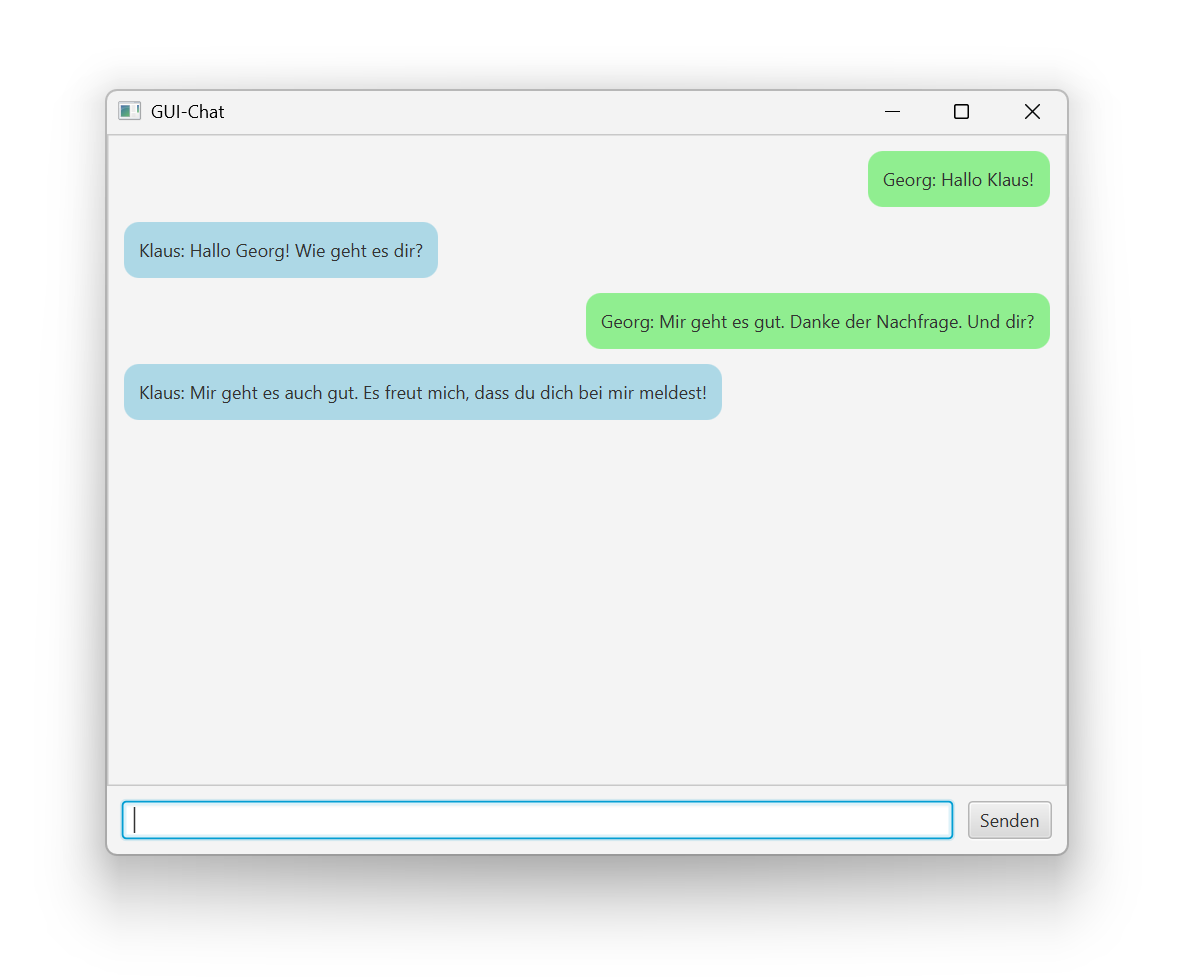
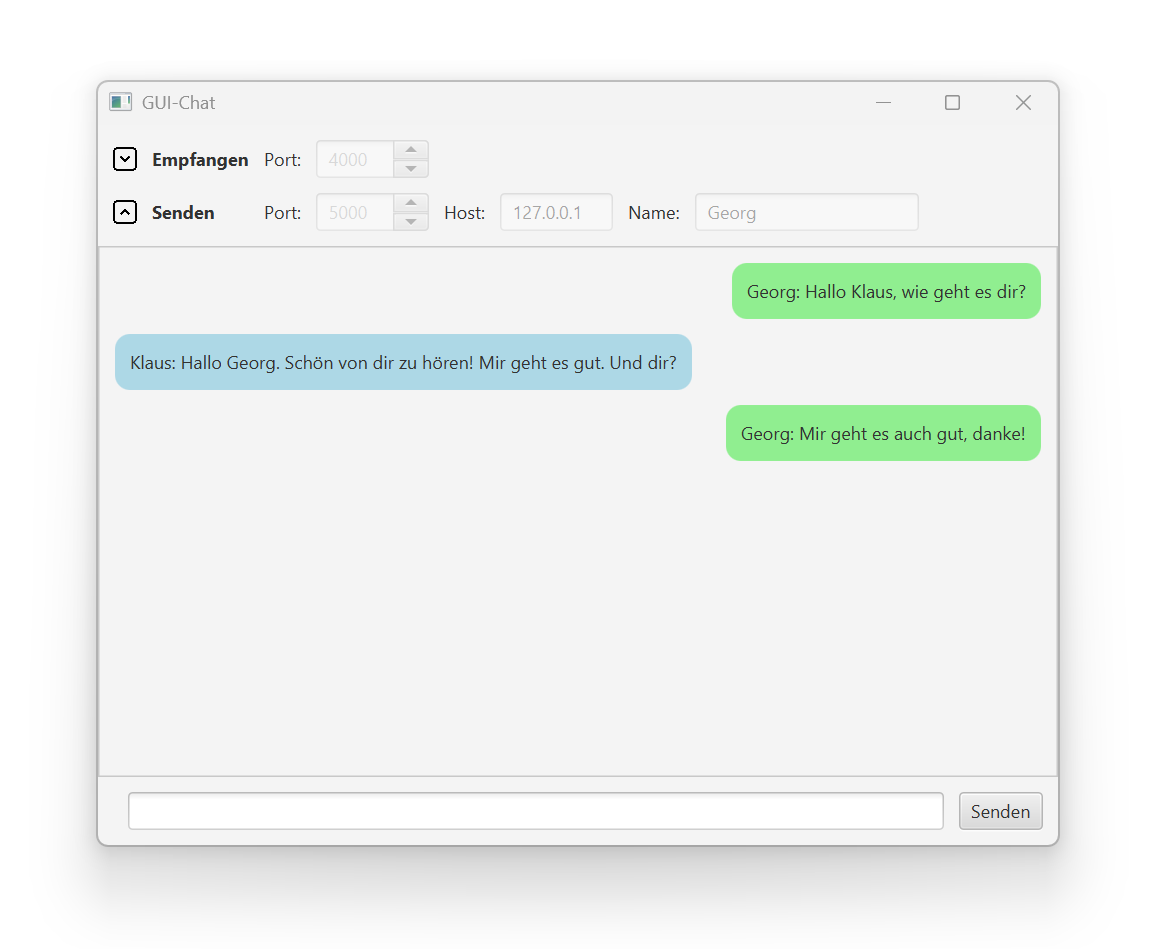
improve chat ux

diff --git a/Quellen/GUI-Chat/src/main/java/at/fhooe/hackenberg/Program.java b/Quellen/GUI-Chat/src/main/java/at/fhooe/hackenberg/Program.java
@@ -20,6 +20,8 @@ import javafx.scene.control.ScrollPane;
 import javafx.scene.control.Spinner;
 import javafx.scene.control.TextField;
 import javafx.scene.control.TextInputDialog;
+import javafx.scene.image.ImageView;
+import javafx.scene.input.KeyCode;
 import javafx.scene.layout.BorderPane;
 import javafx.scene.layout.GridPane;
 import javafx.scene.layout.HBox;
@@ -33,8 +35,61 @@ public class Program extends Application {
 		Program.launch(args);
 		
 	}
+
+	private Spinner<Integer> receivePort;
+	private DatagramSocket receiveSocket;
+	private VBox receiveMessages;
 	
-	private DatagramSocket socket;
+	private TextField sendName;
+	private TextField sendHost;
+	private Spinner<Integer> sendPort;
+	private TextField sendMessage;
+	
+	private void send() {
+		try (DatagramSocket sendSocket = new DatagramSocket()) {
+			// Prüfe den Nachrichteninhalt
+			if (sendMessage.getText().trim().length() == 0) {
+				throw new IOException("Bitte gib eine Nachricht ein.");
+			}
+			
+			// Nachrichtentext erzeugen
+			String data = sendName.getText() + ": " + sendMessage.getText();
+			
+			// Nachrichtentext umwandeln
+			byte[] buffer = data.getBytes();
+
+			// UDP-Paket erzeugen
+			DatagramPacket packet = new DatagramPacket(buffer, buffer.length, InetAddress.getByName(sendHost.getText()), sendPort.getValue());
+
+			// UDP-Paket senden				
+			sendSocket.send(packet);
+			
+			// Nachrichtentext in der Nachrichtenliste anzeigen
+			Label label = new Label(data);
+			label.setPadding(new Insets(10));
+			label.setStyle("-fx-background-color: lightgreen; -fx-background-radius: 10;");
+			label.setWrapText(true);
+			
+			HBox box = new HBox();
+			box.setAlignment(Pos.CENTER_RIGHT);
+			box.getChildren().add(label);
+			
+			receiveMessages.getChildren().add(box);
+			
+			// Inhalt des Texteingabefeldes leeren
+			sendMessage.setText("");
+			
+			// Fokus zurück auf das Texteingabefeld setzen
+			sendMessage.requestFocus();
+		} catch (IOException e) {
+			Alert alert = new Alert(AlertType.ERROR);
+			alert.setTitle("Problem beim Senden");
+			alert.setHeaderText("Es ist ein Problem beim Senden aufgetreten.");
+			alert.setContentText(e.getLocalizedMessage());
+			
+			alert.showAndWait();
+		}
+	}
 
 	@Override
 	public void start(Stage primaryStage) throws Exception {
@@ -47,9 +102,6 @@ public class Program extends Application {
 		ownNameDialog.setContentText("Name:");
 		ownNameDialog.showAndWait();
 		
-		TextField ownNameField = new TextField(ownNameDialog.getResult());
-		ownNameField.setDisable(true);
-		
 		// Portnummer abfragen
 		
 		TextInputDialog ownPortDialog = new TextInputDialog("4000");
@@ -58,19 +110,13 @@ public class Program extends Application {
 		ownPortDialog.setContentText("Port:");
 		ownPortDialog.showAndWait();
 		
-		Spinner<Integer> ownPortSpinner = new Spinner<Integer>(0, 65536, Integer.parseInt(ownPortDialog.getResult()));
-		ownPortSpinner.setDisable(true);
-		
 		// IP-Adresse abfragen
 		
-		TextInputDialog otherHostDialog = new TextInputDialog("localhost");
+		TextInputDialog otherHostDialog = new TextInputDialog("127.0.0.1");
 		otherHostDialog.setTitle("Die IP-Adresse zum Senden");
 		otherHostDialog.setHeaderText("Gib bitte die IP-Addresse zum Senden von Nachrichten ein.");
 		otherHostDialog.setContentText("IP-Adresse:");
 		otherHostDialog.showAndWait();
-		
-		TextField otherHostField = new TextField(otherHostDialog.getResult());
-		otherHostField.setDisable(true);
 		
 		// Portnummer abfragen
 		
@@ -80,95 +126,87 @@ public class Program extends Application {
 		otherPortDialog.setContentText("Port:");
 		otherPortDialog.showAndWait();
 		
-		Spinner<Integer> otherPortSpinner = new Spinner<Integer>(0, 65536, Integer.parseInt(otherPortDialog.getResult()));
-		otherPortSpinner.setDisable(true);
-		
 		// GUI erstellen
 		
-		VBox receiveMessageList = new VBox();
-		receiveMessageList.setSpacing(10);
-		receiveMessageList.setPadding(new Insets(10));
+		receivePort = new Spinner<Integer>(0, 65536, Integer.parseInt(ownPortDialog.getResult()));
+		receivePort.setDisable(true);
+		receivePort.setPrefWidth(75);
 		
-		ScrollPane receiveScrollBar = new ScrollPane();
-		receiveScrollBar.setFitToWidth(true);
-		receiveScrollBar.setContent(receiveMessageList);
-		// Auto-Scroll an das Listenende
-		receiveScrollBar.vvalueProperty().bind(receiveMessageList.heightProperty());
+		receiveMessages = new VBox();
+		receiveMessages.setSpacing(10);
+		receiveMessages.setPadding(new Insets(10));
 		
-		TextField sendMessageField = new TextField("Nachricht");
+		sendName = new TextField(ownNameDialog.getResult());
+		sendName.setDisable(true);
 		
-		Button sendButton = new Button("Senden");
-		sendButton.setOnAction(event -> {
-			try (DatagramSocket socket = new DatagramSocket()) {
-				// Nachrichtentext erzeugen
-				String data = ownNameField.getText() + ": " + sendMessageField.getText();
-				
-				// Nachrichtentext umwandeln
-				byte[] buffer = data.getBytes();
-
-				// UDP-Paket erzeugen
-				DatagramPacket packet = new DatagramPacket(buffer, buffer.length, InetAddress.getByName(otherHostField.getText()), otherPortSpinner.getValue());
-
-				// UDP-Paket senden				
-				socket.send(packet);
-				
-				// Nachrichtentext in der Nachrichtenliste anzeigen
-				Label label = new Label(data);
-				label.setPadding(new Insets(10));
-				label.setStyle("-fx-background-color: lightgreen; -fx-background-radius: 10;");
-				label.setWrapText(true);
-				
-				HBox box = new HBox();
-				box.setAlignment(Pos.CENTER_RIGHT);
-				box.getChildren().add(label);
-				
-				receiveMessageList.getChildren().add(box);
-				
-				// Inhalt des Texteingabefeldes leeren
-				sendMessageField.setText("");
-				
-				// Fokus zurück auf das Texteingabefeld setzen
-				sendMessageField.requestFocus();
-			} catch (IOException e) {
-				Alert alert = new Alert(AlertType.ERROR);
-				alert.setTitle("Problem beim Senden");
-				alert.setHeaderText("Es ist ein Problem beim Senden aufgetreten.");
-				alert.setContentText(e.getLocalizedMessage());
-				
-				alert.showAndWait();
+		sendHost = new TextField(otherHostDialog.getResult());
+		sendHost.setDisable(true);
+		sendHost.setPrefWidth(75);
+		
+		sendPort = new Spinner<Integer>(0, 65536, Integer.parseInt(otherPortDialog.getResult()));
+		sendPort.setDisable(true);
+		sendPort.setPrefWidth(75);
+		
+		sendMessage = new TextField("Nachricht");
+		sendMessage.setOnKeyPressed(event -> {
+			if (event.getCode() == KeyCode.ENTER) {
+				send();
 			}
 		});
 		
-		GridPane receiveToolBar = new GridPane();
-		receiveToolBar.setHgap(10);
-		receiveToolBar.setPadding(new Insets(10));
-		receiveToolBar.add(new Label("Port:"), 0, 0);
-		receiveToolBar.add(ownPortSpinner, 1, 0);
+		ScrollPane receivePane = new ScrollPane();
+		receivePane.setFitToWidth(true);
+		receivePane.setContent(receiveMessages);
+		// Auto-Scroll an das Listenende
+		receivePane.vvalueProperty().bind(receiveMessages.heightProperty());
 		
-		GridPane sendToolBar = new GridPane();
-		sendToolBar.setHgap(10);
-		sendToolBar.setPadding(new Insets(10, 10, 0, 10));
-		sendToolBar.add(new Label("Name:"), 0, 0);
-		sendToolBar.add(ownNameField, 1, 0);
-		sendToolBar.add(new Label("Host:"), 2, 0);
-		sendToolBar.add(otherHostField, 3, 0);
-		sendToolBar.add(new Label("Port:"), 4, 0);
-		sendToolBar.add(otherPortSpinner, 5, 0);
+		Button sendButton = new Button("Senden");
+		sendButton.setOnAction(event -> {
+			send();
+		});
 		
-		BorderPane sendMessageBar = new BorderPane();
-		sendMessageBar.setPadding(new Insets(10));
-		sendMessageBar.setLeft(new Label("Nachricht:"));
-		sendMessageBar.setCenter(sendMessageField);
-		sendMessageBar.setRight(sendButton);
-		BorderPane.setMargin(sendMessageField, new Insets(0, 10, 0, 10));
+		ImageView sendImage = new ImageView("send.png");
+		sendImage.setFitWidth(16);
+		sendImage.setFitHeight(16);
 		
-		VBox sendBar = new VBox();
-		sendBar.getChildren().add(sendToolBar);
-		sendBar.getChildren().add(sendMessageBar);
+		ImageView receiveImage = new ImageView("receive.png");
+		receiveImage.setFitWidth(16);
+		receiveImage.setFitHeight(16);
+		
+		Label sendLabel = new Label("Senden");
+		sendLabel.setStyle("-fx-font-weight: bold;");
+		
+		Label receiveLabel = new Label("Empfangen");
+		receiveLabel.setStyle("-fx-font-weight: bold;");
+		
+		GridPane settingsBar = new GridPane();
+		settingsBar.setHgap(10);
+		settingsBar.setVgap(10);
+		settingsBar.setPadding(new Insets(10));
+		
+		settingsBar.add(receiveImage, 0, 0);
+		settingsBar.add(receiveLabel, 1, 0);
+		settingsBar.add(new Label("Port:"), 2, 0);
+		settingsBar.add(receivePort, 3, 0);
+
+		settingsBar.add(sendImage, 0, 1);
+		settingsBar.add(sendLabel, 1, 1);
+		settingsBar.add(new Label("Port:"), 2, 1);
+		settingsBar.add(sendPort, 3, 1);
+		settingsBar.add(new Label("Host:"), 4, 1);
+		settingsBar.add(sendHost, 5, 1);
+		settingsBar.add(new Label("Name:"), 6, 1);
+		settingsBar.add(sendName, 7, 1);
+		
+		BorderPane sendBar = new BorderPane();
+		sendBar.setPadding(new Insets(10));
+		sendBar.setCenter(sendMessage);
+		sendBar.setRight(sendButton);
+		BorderPane.setMargin(sendMessage, new Insets(0, 10, 0, 10));
 		
 		BorderPane main = new BorderPane();
-		main.setTop(receiveToolBar);
-		main.setCenter(receiveScrollBar);
+		main.setTop(settingsBar);
+		main.setCenter(receivePane);
 		main.setBottom(sendBar);
 		
 		Scene scene = new Scene(main, 640, 480);
@@ -177,7 +215,7 @@ public class Program extends Application {
 		primaryStage.setTitle("GUI-Chat");
 		primaryStage.setOnCloseRequest(event -> {
 			try {
-				socket.close();
+				receiveSocket.close();
 			} catch (Exception e) {
 				Alert alert = new Alert(AlertType.ERROR);
 				alert.setTitle("Problem beim Schließen");
@@ -194,7 +232,7 @@ public class Program extends Application {
 		Thread thread = new Thread(() -> {
 			try {
 				// UDP-Socket erzeugen
-				socket = new DatagramSocket(ownPortSpinner.getValue());
+				receiveSocket = new DatagramSocket(receivePort.getValue());
 				
 				// Datenbuffer erzeugen
 				byte[] buffer = new byte[1024];
@@ -206,7 +244,7 @@ public class Program extends Application {
 				while (true) {
 					try {
 						// UDP-Paket empfangen
-						socket.receive(packet);
+						receiveSocket.receive(packet);
 						
 						// Nachrichtentext auslesen 
 						String data = new String(packet.getData(), packet.getOffset(), packet.getLength());
@@ -221,7 +259,7 @@ public class Program extends Application {
 							HBox box = new HBox();
 							box.getChildren().add(label);
 							
-							receiveMessageList.getChildren().add(box);
+							receiveMessages.getChildren().add(box);
 						});
 					} catch (IOException e) {
 						if (e instanceof SocketException && e.getCause() instanceof AsynchronousCloseException) {
